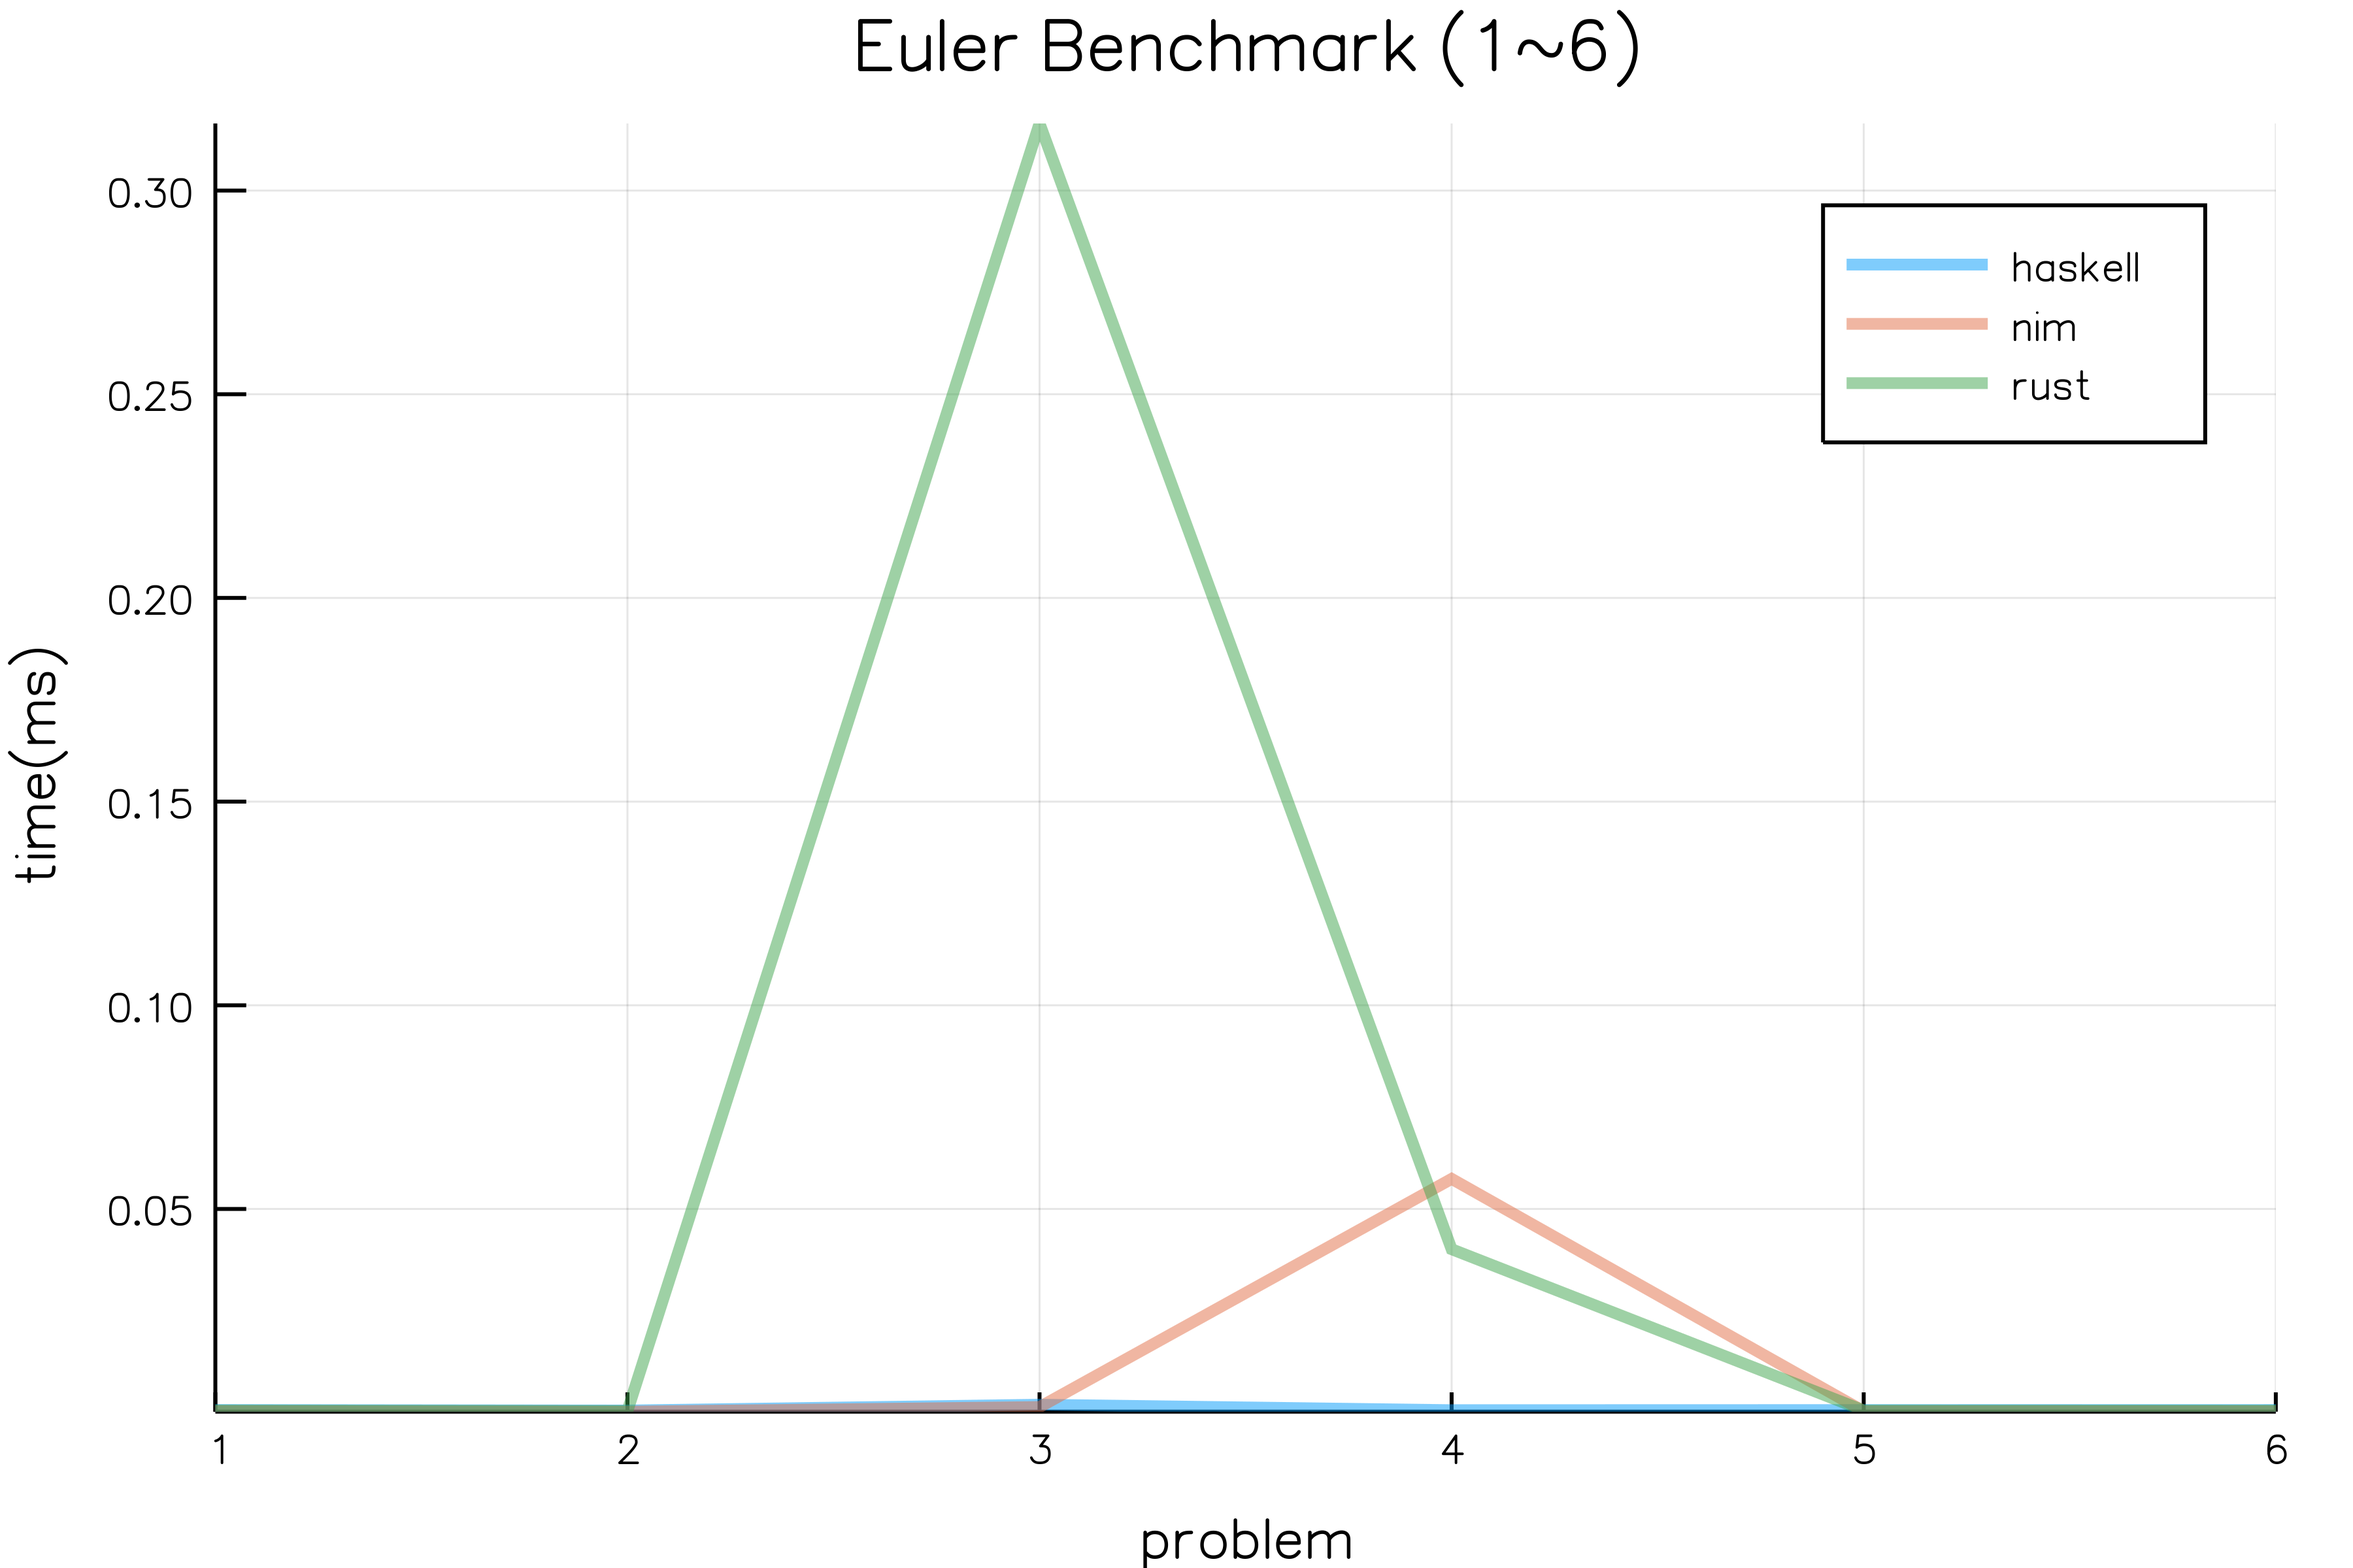
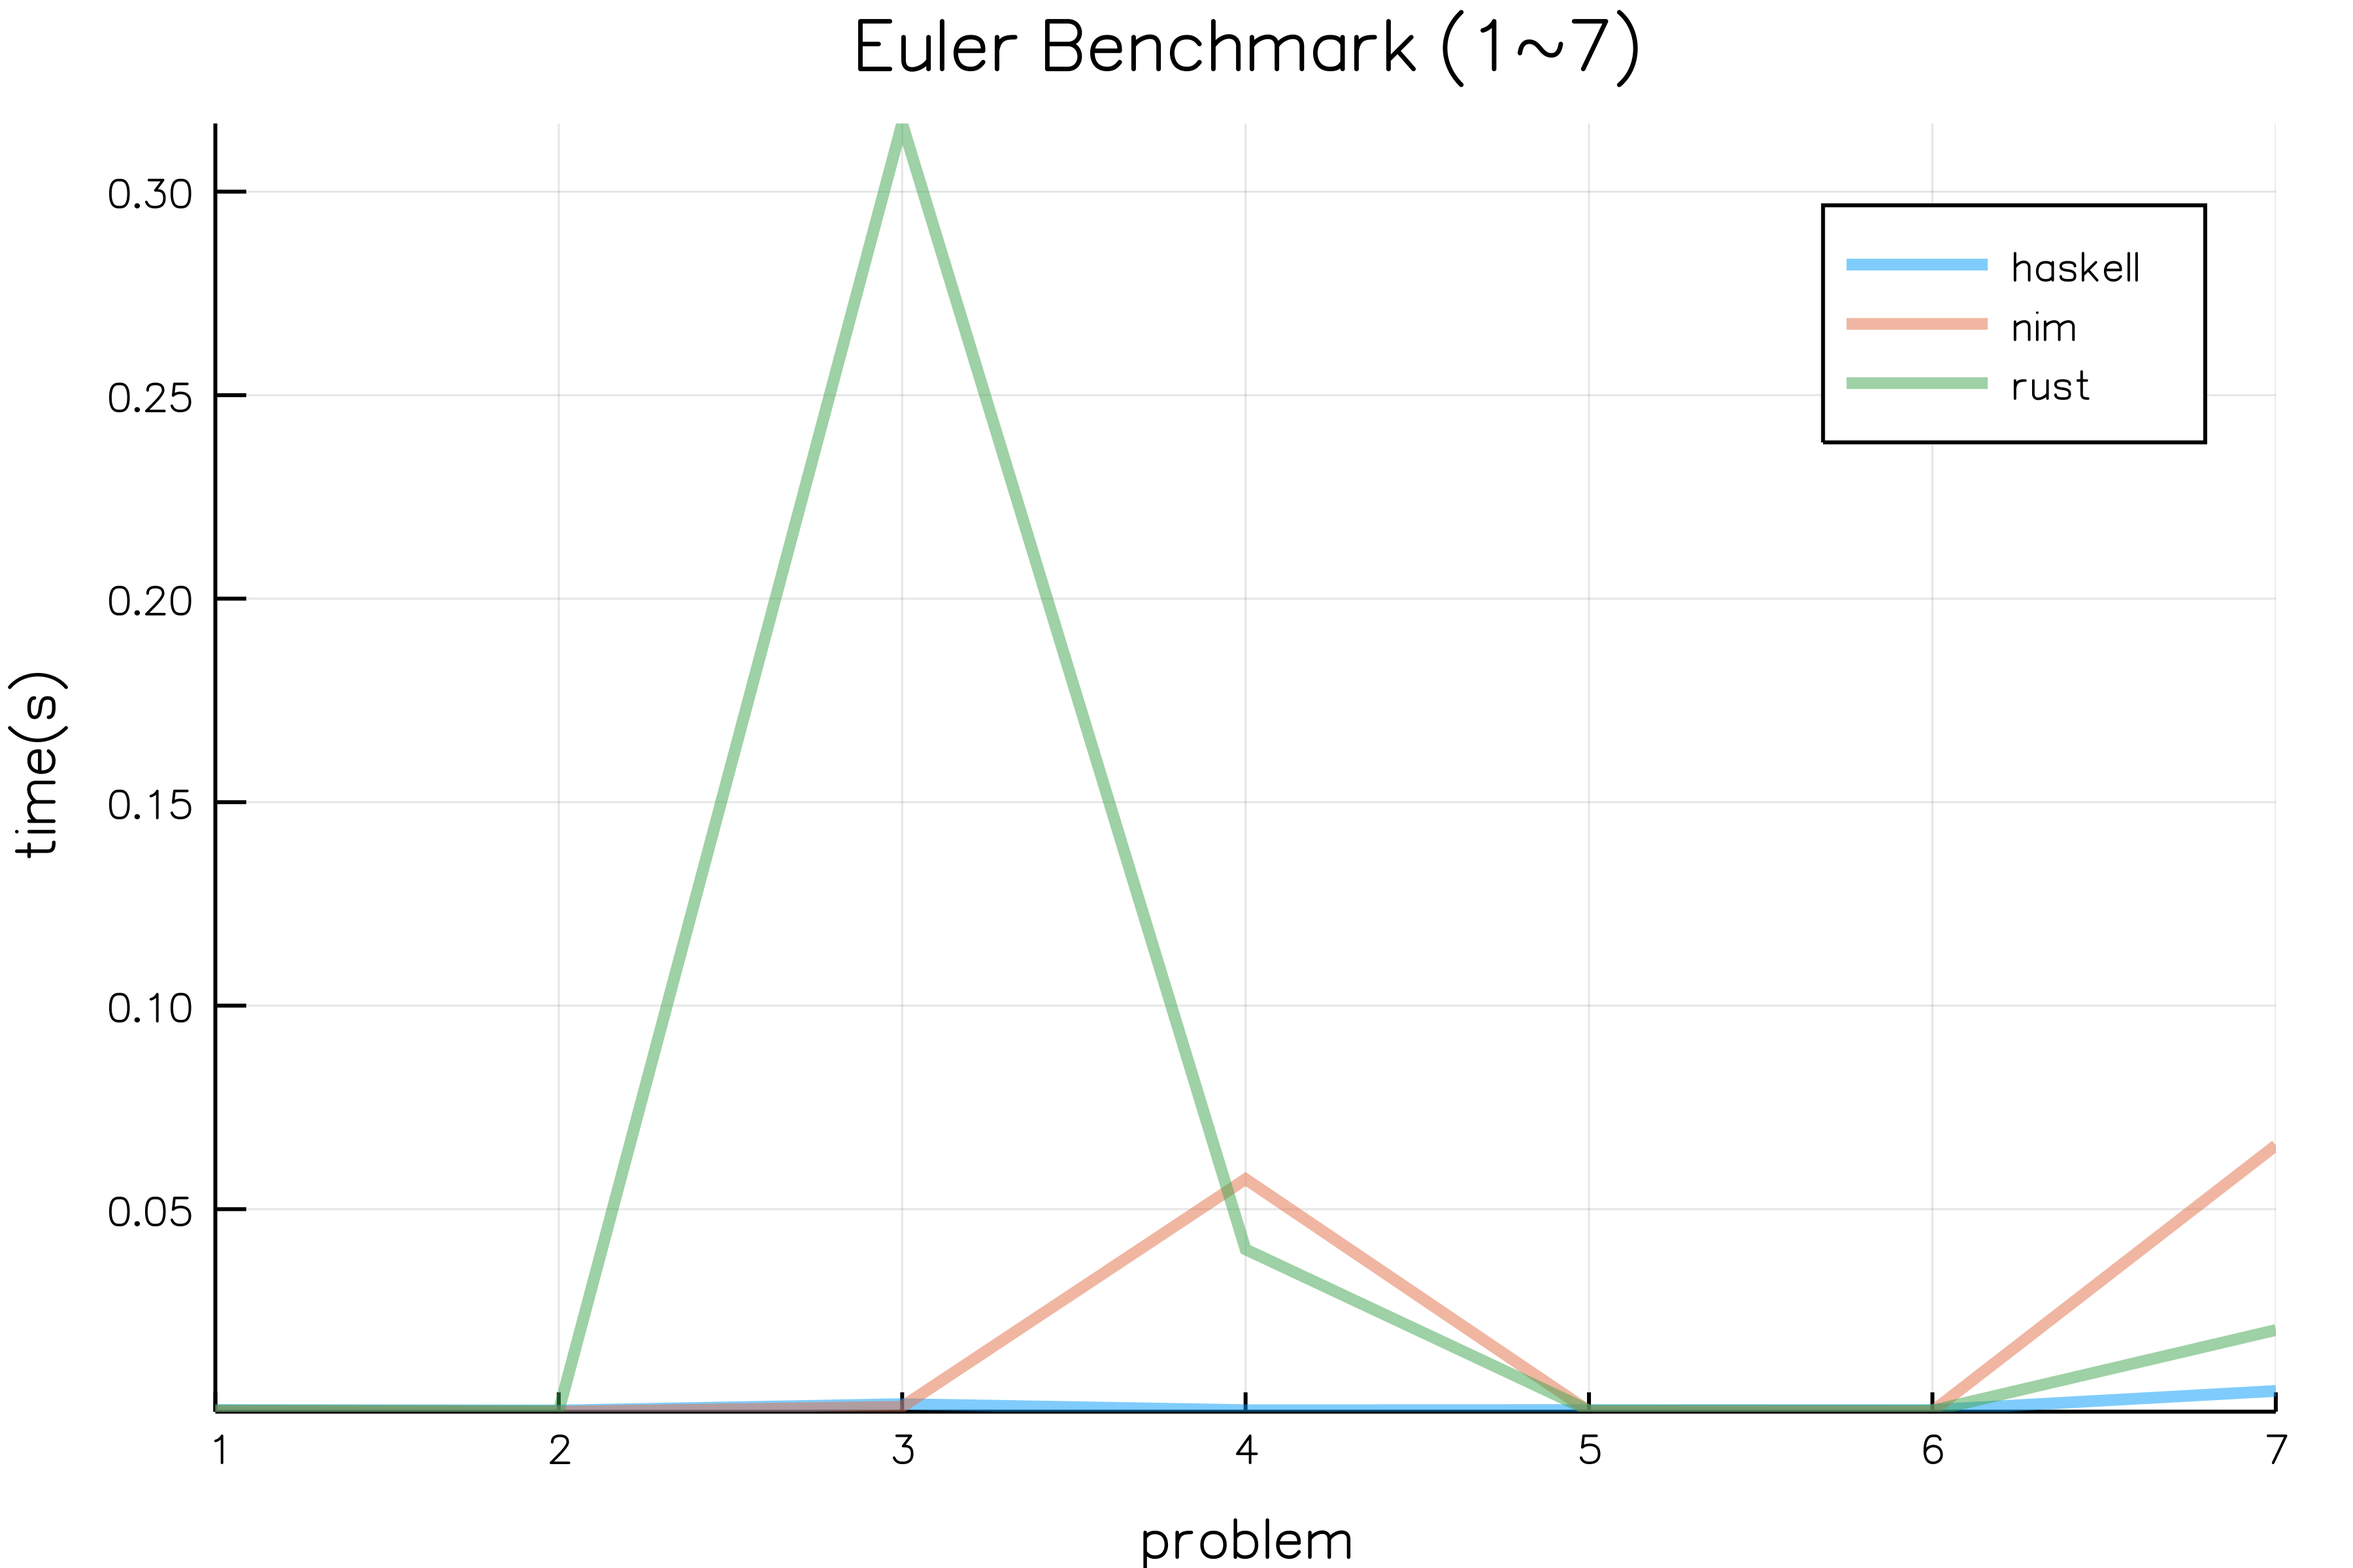
Euler 7 - Nim & Fix benchmark scripts
Former-commit-id: 5b33c6859c7cc2b17c48e55b4d9e8fab8f743ca0 [formerly 5b33c6859c7cc2b17c48e55b4d9e8fab8f743ca0 [formerly c441231801e7d48c384714e7f18e6734ebd14126]]
Former-commit-id: 72a02ccd85a1dc4ec810c3cb0f191738412ee25e
Former-commit-id: 196862495674f55f6cb9777a3da4d7b4c81d82f4

diff --git a/Bench/euler003.md b/Bench/euler003.md
@@ -1,5 +1,5 @@
 | Command | Mean [ms] | Min…Max [ms] |
 |:---|---:|---:|
-| `./Rust/bin/Euler3` | 316.5 ± 0.6 | 315.8…317.6 |
-| `./Nim/bin/p003` | 1.4 ± 0.2 | 1.1…2.2 |
-| `./Haskell/bin/3` | 1.9 ± 0.2 | 1.7…2.8 |
+| `./Rust/bin/Euler3` | 316.8 ± 0.4 | 316.3…317.4 |
+| `./Nim/bin/p003` | 1.5 ± 0.2 | 1.2…2.5 |
+| `./Haskell/bin/3` | 2.1 ± 0.3 | 1.7…4.3 |

diff --git a/Bench/euler007.md b/Bench/euler007.md
@@ -1,0 +1,5 @@
+| Command | Mean [ms] | Min…Max [ms] |
+|:---|---:|---:|
+| `./Rust/bin/Euler7` | 20.3 ± 0.3 | 19.9…21.4 |
+| `./Nim/bin/p007` | 65.7 ± 0.9 | 64.8…70.7 |
+| `./Haskell/bin/7` | 5.3 ± 0.4 | 4.9…6.5 |
